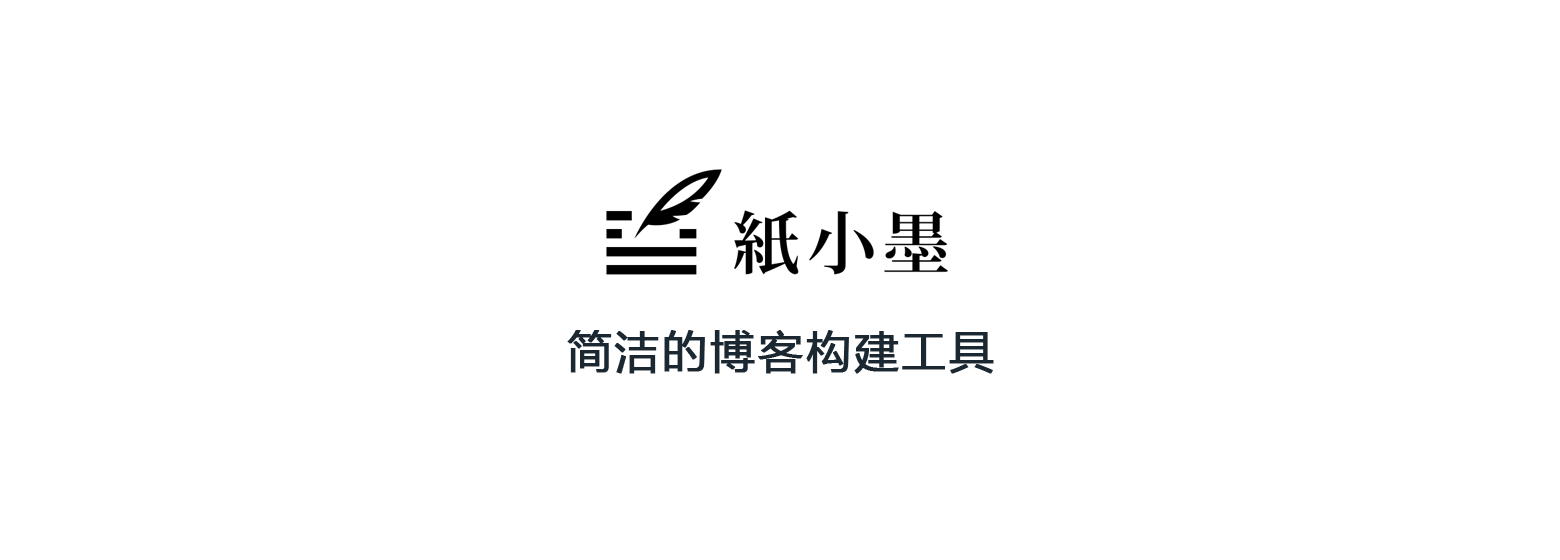
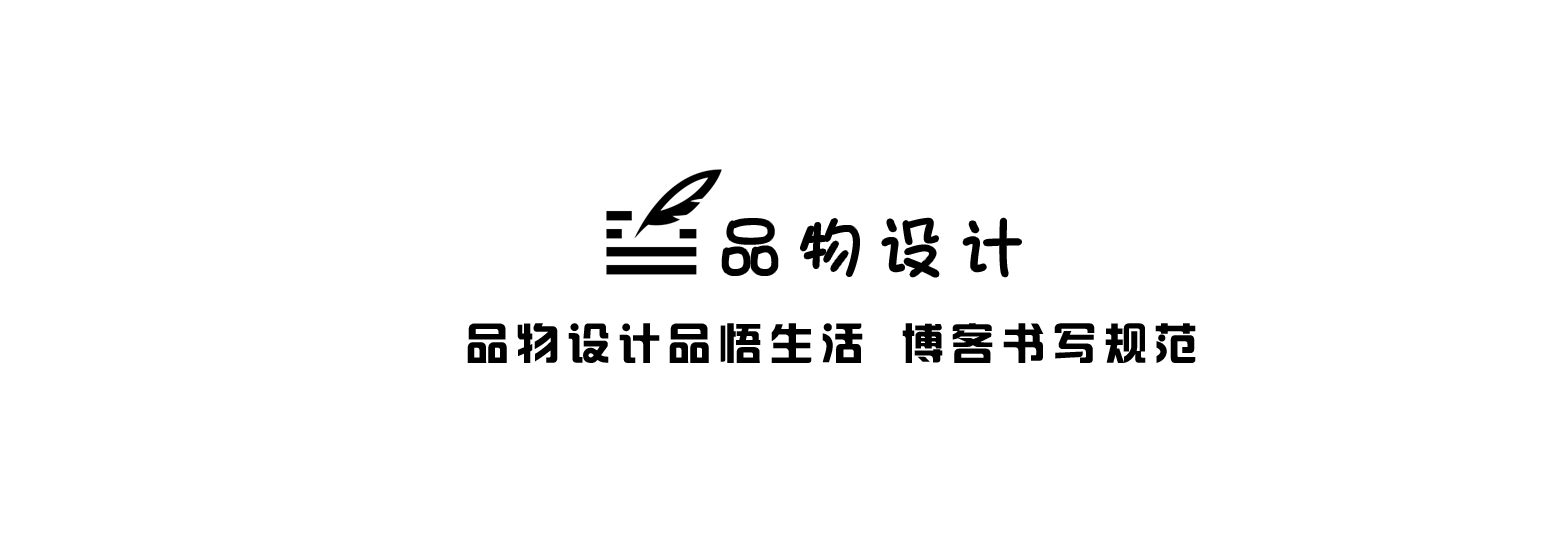
logs

Changed region(s): [[0.2769, 0.5768, 0.7692, 0.6679], [0.4615, 0.3643, 0.6769, 0.5161]]

diff --git a/ink-blog-tool.html b/ink-blog-tool.html
@@ -68,9 +68,9 @@
 
 
         <meta name="keywords" content="设计,写作,">
-        <meta name="description" content="简洁的静态博客构建工具 —— 纸小墨（InkPaper）">
+        <meta name="description" content="品物设计-博客书写规范">
         <meta name="author" content="品物设计">
-        <title>简洁的静态博客构建工具 —— 纸小墨（InkPaper）</title>
+        <title>品物设计-博客书写规范</title>
     </head>
     <body>
         <article class="container">
@@ -87,192 +87,46 @@
 </header>
 
             <article class="main article">
-                <h1 class="title">简洁的静态博客构建工具 —— 纸小墨（InkPaper）</h1>
+                <h1 class="title">品物设计-博客书写规范</h1>
                 <section class="info">
                     <span class="avatar" style="background-image: url(/images/avatar.png);"></span>
                     <a class="name" href="/about.me.html">品物设计</a>
                     
-                    <span class="date" data-time="1468227600"><span class="from"></span></span>
+                    <span class="date" data-time="1512050400"><span class="from"></span></span>
                     
                     <span class="tags"><a class="tag" href="/tag/%e8%ae%be%e8%ae%a1/index.html">设计</a><a class="tag" href="/tag/%e5%86%99%e4%bd%9c/index.html">写作</a></span>
                 </section>
-                <article class="content"><h2>纸小墨简介</h2>
+                <article class="content"><h2>大标题 博客书写规范</h2>
 
-<p>纸小墨（InkPaper）是一个GO语言编写的开源静态博客构建工具，可以快速搭建博客网站。它无依赖跨平台，配置简单构建快速，注重简洁易用与更优雅的排版。</p>
+<p>常用书写自换行。</p>
 
[2 lines of base64/hex data omitted]
 
-<h3>开始上手</h3>
-
-<ul>
-<li>下载并解压 <a href="http://www.chole.io/">Ink</a>，运行命令 <code>ink preview</code></li>
-</ul>
+<h3>二标题</h3>
 
 <blockquote>
-<p>注意：Linux/macOS下，使用 <code>./ink preview</code></p>
+<p>运行命令 <code>ink preview</code></p>
 </blockquote>
 
 <ul>
-<li>使用浏览器访问 <code>http://localhost:8000</code> 预览。</li>
+<li><p>使用浏览器访问 <code>http://localhost:8000</code> 预览。</p></li>
+
+<li><p>列表</p></li>
 </ul>
 
-<h3>特性介绍</h3>
-
-<ul>
-<li>YAML格式的配置</li>
-<li>Markdown格式的文章</li>
-<li>无依赖跨平台</li>
-<li>超快的构建速度</li>
-<li>不断改善的主题与排版</li>
-<li>多文章作者支持</li>
-<li>归档与标签自动生成</li>
-<li>保存时实时预览页面</li>
-<li>离线的全文关键字搜索</li>
-</ul>
-
-<h3>配置网站</h3>
-
-<p>编辑<code>config.yml</code>，使用如下格式：</p>
-
-<pre><code class="language-yaml">site:
-    title: 网站标题
-    subtitle: 网站子标题
-    limit: 每页可显示的文章数目
-    theme: 网站主题目录
-    comment: 评论插件变量(默认为Disqus账户名)
-    root: 网站根路径 #可选
-    lang: 网站语言 #支持en, zh, ru, ja，可在theme/config.yml配置
-    url: 网站链接 #用于RSS生成
-    link: 文章链接形式 #默认为{title}.html，支持{year},{month},{day},{title}变量
-
-authors:
-    作者ID:
-        name: 作者名称
-        intro: 作者简介
-        avatar: 作者头像路径
-
-build:
-    output: 构建输出目录 #可选, 默认为 &quot;public&quot;
-    port: 预览端口
-    copy:
-        - 构建时将会复制的目录/文件
-    publish: |
-        ink publish 命令将会执行的脚本
+<pre><code class="language-yaml">内容虚线框
 </code></pre>
 
-<h3>创建文章</h3>
-
-<p>在<code>source</code>目录中建立任意<code>.md</code>文件（可置于子文件夹），使用如下格式：</p>
-
-<pre><code class="language-yaml">title: 文章标题
-date: 年-月-日 时:分:秒 #创建时间，可加时区如&quot; +0800&quot;
-update: 年-月-日 时:分:秒 #更新时间，可选，可加时区如&quot; +0800&quot;
-author: 作者ID
-cover: 题图链接 #可选
-draft: false #草稿，可选
-top: false #置顶文章，可选
-preview: 文章预览，也可在正文中使用&lt;!--more--&gt;分割 #可选
-tags: #可选
-    - 标签1
-    - 标签2
-type: post #指定类型为文章(post)或页面(page)，可选
-hide: false #隐藏文章，只可通过链接访问，可选
-
----
-
-Markdown格式的正文
-</code></pre>
-
-<h3>发布博客</h3>
-
-<ul>
-<li>在博客目录下运行<code>ink publish</code>命令自动构建博客并发布。</li>
-<li>或运行<code>ink build</code>命令将生成的<code>public</code>目录下的内容手动部署。</li>
-</ul>
-
-<blockquote>
-<p>Tips: 在使用<code>ink preview</code>命令时，编辑保存文件后，博客会自动重新构建并刷新浏览器页面。</p>
-</blockquote>
-
-<h2>定制支持</h2>
-
-<h3>修改主题</h3>
-
-<p>默认主题在<code>theme</code>目录下，修改源代码后在该目录下运行<code>npm install</code>与<code>npm run build</code>重新构建。</p>
-
-<p>页面包含<code>page.html</code>（文章列表）及<code>article.html</code>（文章）等，所有页面均支持<a href="http://golang.org/pkg/html/template/">GO语言HTML模板</a>语法，可引用变量。</p>
-
-<h3>添加页面</h3>
-
-<p>在<code>source</code>目录下创建的任意<code>.html</code>文件将被复制，这些文件中可引用<code>config.yml</code>中site字段下的所有变量。</p>
-
-<h3>博客迁移(Beta)</h3>
-
-<p>纸小墨提供简单的Jeklly/Hexo博客文章格式转换，使用命令：</p>
-
-<pre><code class="language-shell">ink convert /path/_posts
-</code></pre>
-
-<h3>源码编译</h3>
-
-<p>本地运行</p>
+<p>小标题</p>
 
 <ol>
-<li>配置<a href="http://golang.org/doc/install">GO</a>语言环境。</li>
-<li>运行命令<code>go get github.com/InkProject/ink</code>，编译并获取ink。</li>
-<li>运行命令<code>ink preview $GOPATH/src/github.com/InkProject/ink/template</code>，预览博客。</li>
+<li>内容<a href="http://www.pinwu.pw">绿色链接</a>文字。</li>
+<li>内容<code>绿色</code>文字。</li>
 </ol>
 
-<p>Docker构建（示例）</p>
-
-<ol>
-<li>Clone源码 <code>git clone git@github.com:InkProject/ink.git</code>。</li>
-<li>源码目录下构建镜像<code>docker build -t ink .</code>。</li>
-<li>运行容器<code>docker run -p 8000:80 ink</code>。</li>
-</ol>
-
-<h2>主题</h2>
-
 <ul>
-<li>Dark(Official Theme): <a href="https://github.com/InkProject/ink-theme-dark">https://github.com/InkProject/ink-theme-dark</a></li>
-<li>simple: <a href="https://github.com/myiq/ink-simple">https://github.com/myiq/ink-simple</a></li>
-</ul>
-
-<h2>相关链接</h2>
-
-<ul>
-<li><a href="https://segmentfault.com/a/1190000009084954">InkPaper 最佳实践</a></li>
-</ul>
-
-<h2>反馈贡献</h2>
-
-<p>纸小墨基于 <a href="https://creativecommons.org/licenses/by-nc/4.0/">CC Attribution-NonCommercial License 4.0</a> 协议，目前为止它仍然是个非成熟的开源项目，非常欢迎任何人的任何贡献。如有问题可报告至 <a href="https://github.com/InkProject/ink/issues">https://github.com/InkProject/ink/issues</a>。</p>
-
-<h2>更新历史</h2>
-
-<ul>
-<li>[2016-07-11] 修复诸多Issue与合并一些PR。</li>
-<li>[2015-08-15] 一些Bug修复，新增RSS订阅支持，主题改善。</li>
-<li>[2015-07-04] 数项Bug修复与主题改善，支持置顶，多语言，子模板。</li>
-<li>[2015-06-04] 编译更多平台版本，增加标签与存档页。</li>
-<li>[2015-03-01] Beta版本，基础功能完成。</li>
-</ul>
-
-<h2>更新计划</h2>
-
-<ul>
-<li>排版深度优化</li>
-<li>纸小墨编辑器</li>
-</ul>
-
-<h2>正在使用</h2>
-
-<ul>
-<li><a href="http://www.chole.io/blog/">http://www.chole.io/blog/</a></li>
-<li><a href="http://blog.hyper.sh/">http://blog.hyper.sh/</a></li>
-<li><a href="http://wangxu.me/">http://wangxu.me/</a></li>
-<li><a href="http://whzecomjm.com/">http://whzecomjm.com/</a></li>
-<li><a href="http://www.shery.me/blog/">http://www.shery.me/blog/</a></li>
+<li>标题: <a href="http://www.pinwu.pw">http://www.pinwu.pw</a></li>
+<li><a href="http://www.pinwu.pw">文字连接</a></li>
 </ul>
 </article>
                 <section class="author">

diff --git a/index.html b/index.html
@@ -101,15 +101,15 @@
                 <ul class="article-list">
                     
                     <li class="article">
-                        <a class="title" href="/ink-blog-tool.html">简洁的静态博客构建工具 —— 纸小墨（InkPaper）</a>
+                        <a class="title" href="/ink-blog-tool.html">品物设计-博客书写规范</a>
                         <div class="cover" style="background-image:url(/images/example.png);"></div>
-                        <section class="preview content"><p>纸小墨（InkPaper）是一个GO语言编写的开源静态博客构建工具，可以快速搭建博客网站。它无依赖跨平台，配置简单构建快速，注重简洁易用与更优雅的排版。</p>
+                        <section class="preview content"><p>博客书写规范。</p>
 </section>
                         <section class="info">
                             <span class="avatar" style="background-image: url(/images/avatar.png);"></span>
                             <a class="name" href="/about.me.html">品物设计</a>
                             
-                            <span class="date" data-time="1468227600"><span class="from"></span></span>
+                            <span class="date" data-time="1512050400"><span class="from"></span></span>
                             
                             <span class="tags">
                             <a class="tag" href="/tag/%e8%ae%be%e8%ae%a1/index.html">设计</a><a class="tag" href="/tag/%e5%86%99%e4%bd%9c/index.html">写作</a>

diff --git a/tag/写作/index.html b/tag/写作/index.html
@@ -96,15 +96,15 @@
                 <ul class="article-list">
                     
                     <li class="article">
-                        <a class="title" href="/ink-blog-tool.html">简洁的静态博客构建工具 —— 纸小墨（InkPaper）</a>
+                        <a class="title" href="/ink-blog-tool.html">品物设计-博客书写规范</a>
                         <div class="cover" style="background-image:url(/images/example.png);"></div>
-                        <section class="preview content"><p>纸小墨（InkPaper）是一个GO语言编写的开源静态博客构建工具，可以快速搭建博客网站。它无依赖跨平台，配置简单构建快速，注重简洁易用与更优雅的排版。</p>
+                        <section class="preview content"><p>博客书写规范。</p>
 </section>
                         <section class="info">
                             <span class="avatar" style="background-image: url(/images/avatar.png);"></span>
                             <a class="name" href="/about.me.html">品物设计</a>
                             
-                            <span class="date" data-time="1468227600"><span class="from"></span></span>
+                            <span class="date" data-time="1512050400"><span class="from"></span></span>
                             
                             <span class="tags">
                             <a class="tag" href="/tag/%e8%ae%be%e8%ae%a1/index.html">设计</a><a class="tag" href="/tag/%e5%86%99%e4%bd%9c/index.html">写作</a>

diff --git a/tag/设计/index.html b/tag/设计/index.html
@@ -96,15 +96,15 @@
                 <ul class="article-list">
                     
                     <li class="article">
-                        <a class="title" href="/ink-blog-tool.html">简洁的静态博客构建工具 —— 纸小墨（InkPaper）</a>
+                        <a class="title" href="/ink-blog-tool.html">品物设计-博客书写规范</a>
                         <div class="cover" style="background-image:url(/images/example.png);"></div>
-                        <section class="preview content"><p>纸小墨（InkPaper）是一个GO语言编写的开源静态博客构建工具，可以快速搭建博客网站。它无依赖跨平台，配置简单构建快速，注重简洁易用与更优雅的排版。</p>
+                        <section class="preview content"><p>博客书写规范。</p>
 </section>
                         <section class="info">
                             <span class="avatar" style="background-image: url(/images/avatar.png);"></span>
                             <a class="name" href="/about.me.html">品物设计</a>
                             
-                            <span class="date" data-time="1468227600"><span class="from"></span></span>
+                            <span class="date" data-time="1512050400"><span class="from"></span></span>
                             
                             <span class="tags">
                             <a class="tag" href="/tag/%e8%ae%be%e8%ae%a1/index.html">设计</a><a class="tag" href="/tag/%e5%86%99%e4%bd%9c/index.html">写作</a>

diff --git a/archive.html b/archive.html
@@ -76,12 +76,12 @@
                 <ul class="archive-list">
                     
                     <li class="archive-item">
-                        <div class="archive-year">2015</div>
+                        <div class="archive-year">2017</div>
                         <ul class="article-list">
                             
                             <li class="article-item">
-                                <span class="date">2015-03-01</span>
-                                <a href="ink-blog-tool.html">简洁的静态博客构建工具 —— 纸小墨（InkPaper）</a>
+                                <span class="date">2017-11-30</span>
+                                <a href="ink-blog-tool.html">品物设计-博客书写规范</a>
                             </li>
                             
                         </ul>
